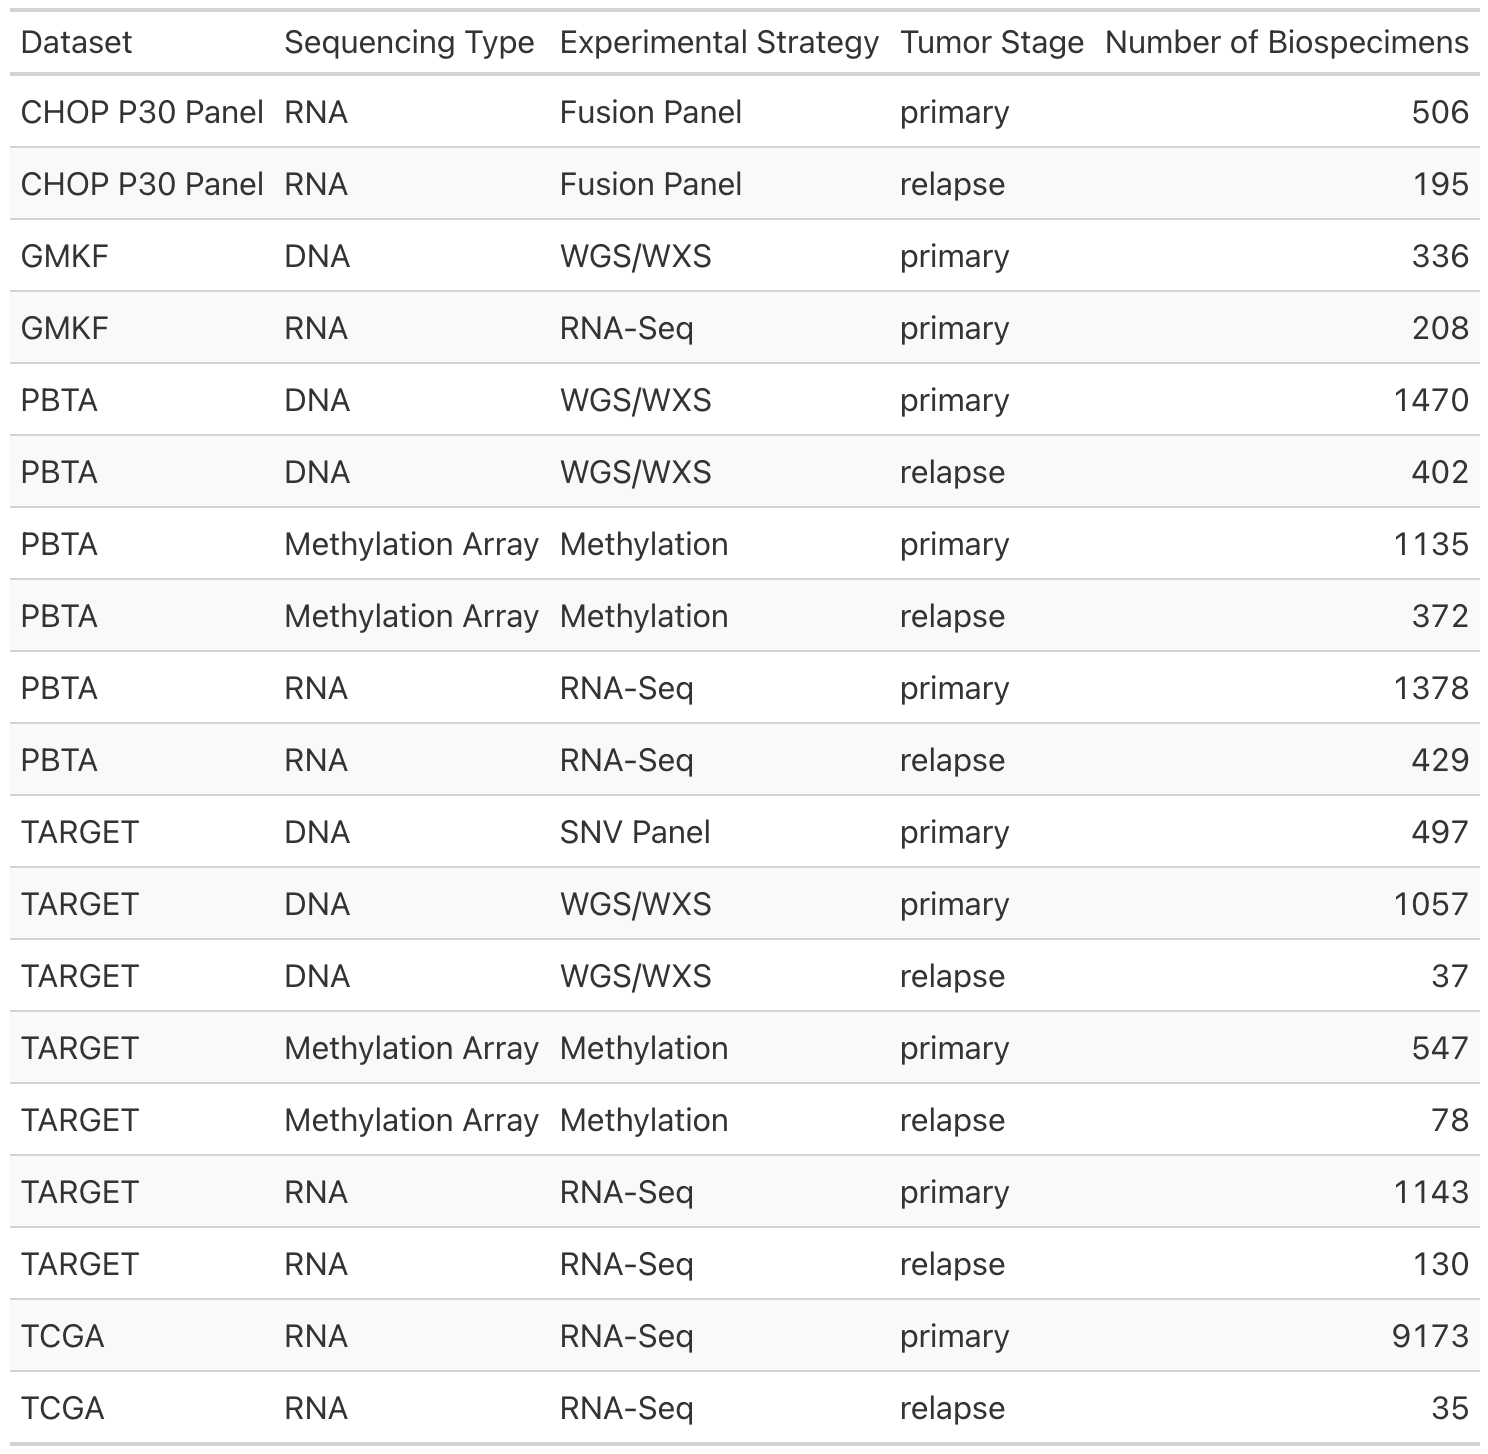
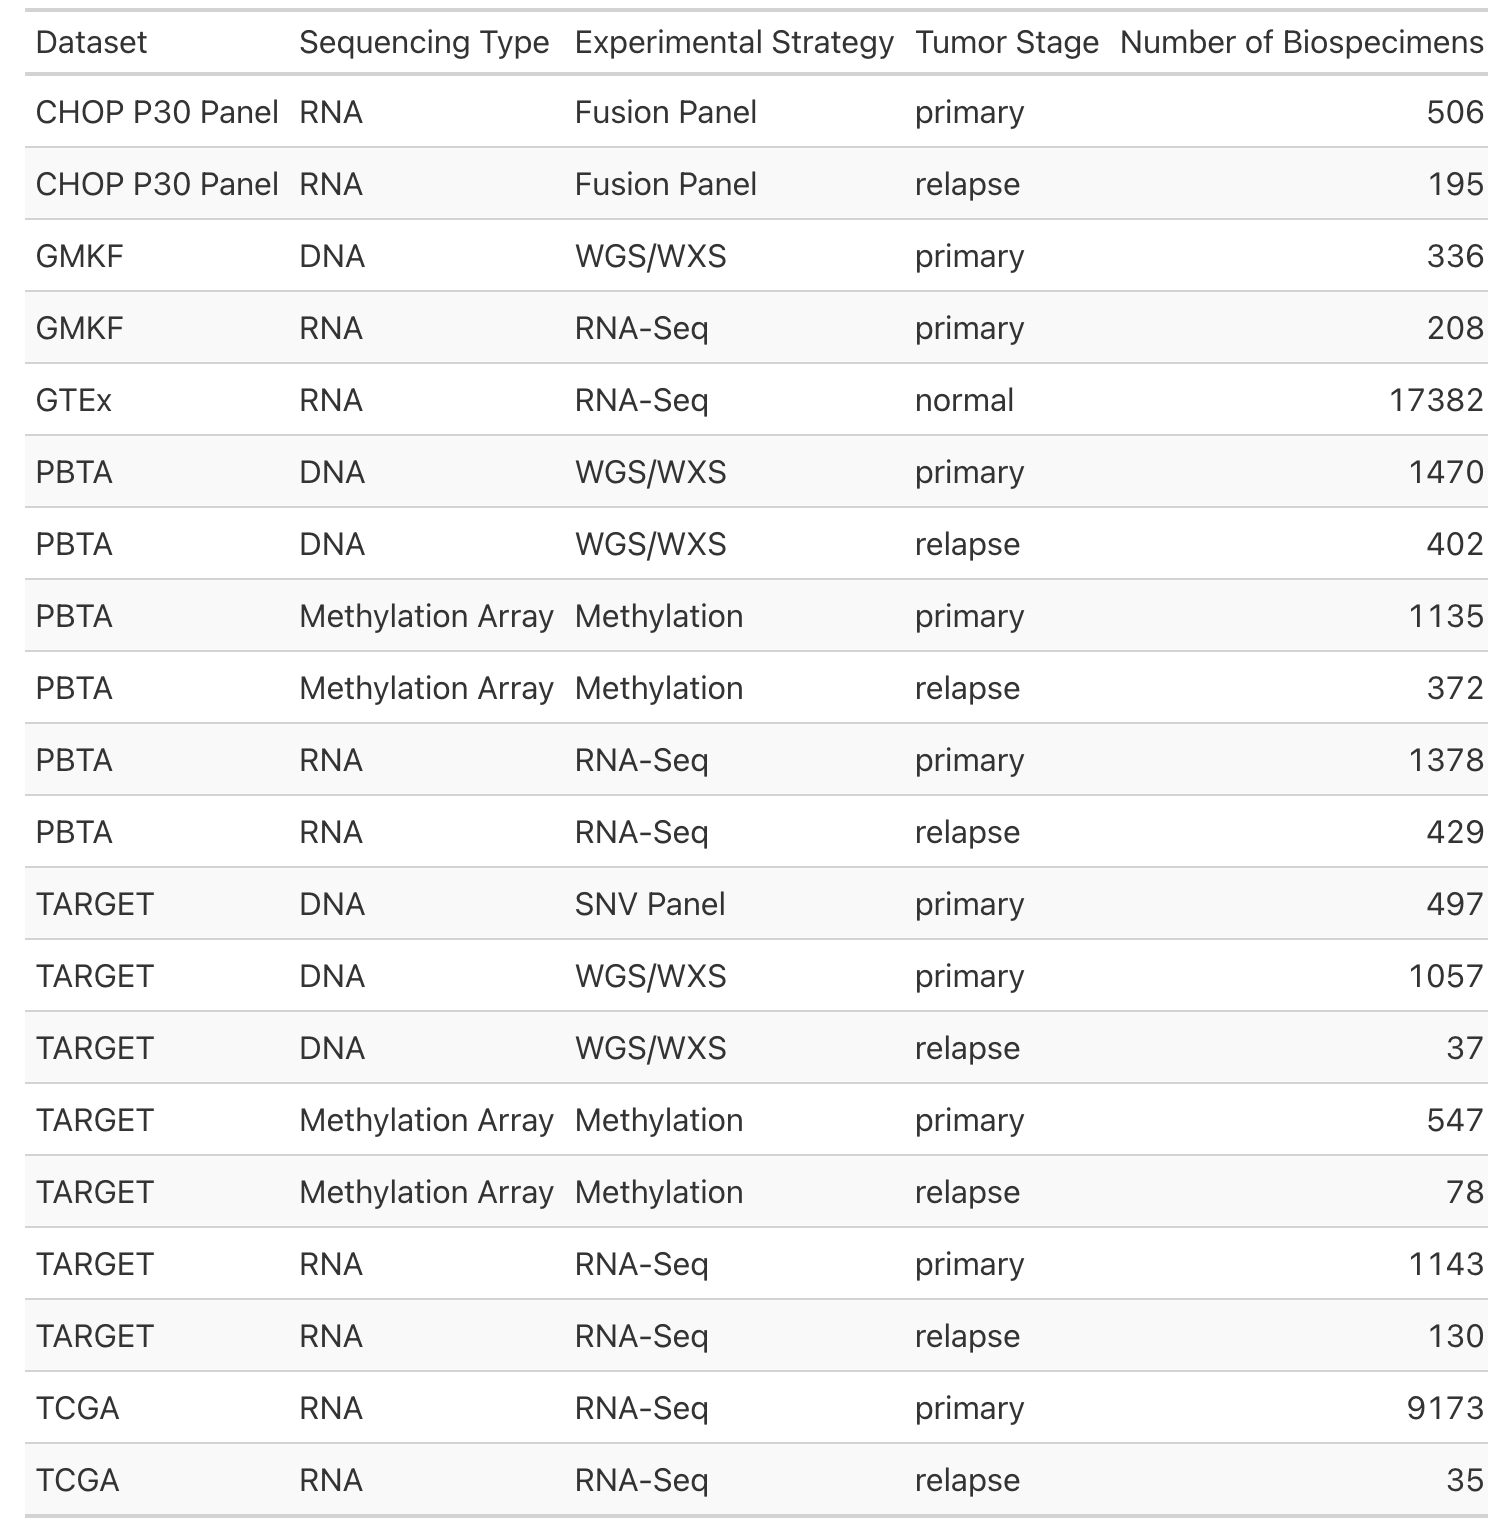
adding GTEx counts in

Changed region(s): [[0.0, 0.0, 1.0, 0.9904], [0.9583, 0.9594, 1.0, 1.0]]

diff --git a/scripts/biospecimen_count.html b/scripts/biospecimen_count.html
@@ -494,15 +494,16 @@ experimental strategy) per cohort</p>
 histologies %&gt;% 
 # get unique combinations of patients, cohorts, diseases (cancer_group), 
 # types of data (experimental_strategy), and tumor descriptions
-  distinct(Kids_First_Participant_ID, Kids_First_Biospecimen_ID, 
+  distinct(Kids_First_Participant_ID, Kids_First_Biospecimen_ID, sample_type,
            cohort, cancer_group, experimental_strategy, tumor_descriptor) %&gt;%
   inner_join(bind_rows(dna_primary, dna_relapse)) %&gt;% 
   filter(!is.na(cohort), !is.na(cancer_group)) %&gt;%
 # add stage column to specify whether the tumor is primary or relapse in keeping
 # with the language on the Pediatric Molecular Targets site
-  mutate(stage = case_when(tumor_descriptor %in% 
+  mutate(stage = case_when(sample_type == &#39;Normal&#39; ~ &#39;normal&#39;,
+                           sample_type == &#39;Tumor&#39; &amp; tumor_descriptor %in% 
                              unique(dna_primary$tumor_descriptor) ~ &#39;primary&#39;,
-                           tumor_descriptor %in% 
+                           sample_type == &#39;Tumor&#39; &amp; tumor_descriptor %in% 
                              unique(dna_relapse$tumor_descriptor) ~ &#39;relapse&#39;,
                            TRUE ~ NA_character_),
 # Don&#39;t distinguish different sequencing methods on the Pediatric Molecular 
@@ -541,15 +542,18 @@ experimental strategy) per cohort</p>
 histologies %&gt;% 
 # get unique combinations of patients, cohorts, diseases (cancer_group), 
 # types of data (experimental_strategy), and tumor descriptions
-  distinct(Kids_First_Participant_ID, Kids_First_Biospecimen_ID, 
+  distinct(Kids_First_Participant_ID, Kids_First_Biospecimen_ID, sample_type,
            cohort, cancer_group, experimental_strategy, tumor_descriptor) %&gt;%
-  inner_join(rbind(rna_primary, rna_relapse)) %&gt;% 
-  filter(!is.na(cohort), !is.na(cancer_group)) %&gt;%
+  filter(Kids_First_Biospecimen_ID %in% rna_primary$Kids_First_Biospecimen_ID | 
+           Kids_First_Biospecimen_ID %in% rna_relapse$Kids_First_Biospecimen_ID |
+           cohort == &#39;GTEx&#39;) %&gt;% 
+  filter(!is.na(cohort), !is.na(cancer_group) | sample_type == &#39;Normal&#39;) %&gt;%
 # add stage column to specify whether the tumor is primary or relapse in keeping
 # with the language on the Pediatric Molecular Targets site
-  mutate(stage = case_when(tumor_descriptor %in% 
+  mutate(stage = case_when(sample_type == &#39;Normal&#39; ~ &#39;normal&#39;,
+                           sample_type == &#39;Tumor&#39; &amp; tumor_descriptor %in% 
                              unique(dna_primary$tumor_descriptor) ~ &#39;primary&#39;,
-                           tumor_descriptor %in% 
+                           sample_type == &#39;Tumor&#39; &amp; tumor_descriptor %in% 
                              unique(dna_relapse$tumor_descriptor) ~ &#39;relapse&#39;,
                            TRUE ~ NA_character_),
 # Don&#39;t distinguish different sequencing methods on the Pediatric Molecular 
@@ -559,13 +563,10 @@ histologies %&gt;%
          experimental_strategy = case_when(experimental_strategy == 
                                              &#39;Targeted Sequencing&#39; ~ 
                                              &#39;Fusion Panel&#39;,
-                                           TRUE ~ experimental_strategy)) %&gt;% 
+                                           TRUE ~ experimental_strategy)) %&gt;%
   count(cohort, stage, sequencing_type, 
         experimental_strategy, cancer_group) %&gt;%
   filter(n &gt;= 3) -&gt; rna_counts</code></pre>
-<pre><code>## Joining with `by = join_by(Kids_First_Participant_ID,
-## Kids_First_Biospecimen_ID, cohort, cancer_group, experimental_strategy,
-## tumor_descriptor)`</code></pre>
 <p>Check that there is no missing information (<code>NA</code>) in the
 RNA count table.</p>
 <pre class="r"><code>if ( any(is.na(rna_counts$stage)) ) {
@@ -577,6 +578,8 @@ RNA count table.</p>
 } else if ( any(is.na(rna_counts$cancer_group)) ) {
   warning(&#39;Missing cancer_group count information, is.na(rna_counts$cancer_group) is true.&#39;)
 } </code></pre>
+<pre><code>## Warning: Missing cancer_group count information, is.na(rna_counts$cancer_group)
+## is true.</code></pre>
 <p><br></p>
 </div>
 <div id="count-methylation-biospecimens" class="section level4">
@@ -587,15 +590,16 @@ experimental strategy) per cohort</p>
 histologies %&gt;% 
 # get unique combinations of patients, cohorts, diseases (cancer_group), 
 # types of data (experimental_strategy), and tumor descriptions
-  distinct(Kids_First_Participant_ID, Kids_First_Biospecimen_ID, 
+  distinct(Kids_First_Participant_ID, Kids_First_Biospecimen_ID, sample_type,
            cohort, cancer_group, experimental_strategy, tumor_descriptor) %&gt;%
   inner_join(rbind(methyl_primary, methyl_relapse)) %&gt;% 
   filter(!is.na(cohort), !is.na(cancer_group)) %&gt;%
 # add stage column to specify whether the tumor is primary or relapse in keeping
 # with the language on the Pediatric Molecular Targets site
-  mutate(stage = case_when(tumor_descriptor %in% 
+  mutate(stage = case_when(sample_type == &#39;Normal&#39; ~ &#39;normal&#39;,
+                           sample_type == &#39;Tumor&#39; &amp; tumor_descriptor %in% 
                              unique(dna_primary$tumor_descriptor) ~ &#39;primary&#39;,
-                           tumor_descriptor %in% 
+                           sample_type == &#39;Tumor&#39; &amp; tumor_descriptor %in% 
                              unique(dna_relapse$tumor_descriptor) ~ &#39;relapse&#39;,
                            TRUE ~ NA_character_),
 # Don&#39;t distinguish different sequencing methods on the Pediatric Molecular 
@@ -632,17 +636,7 @@ methylation count table.</p>
                             cohort == &#39;TARGET&#39; &amp; 
                               experimental_strategy == &#39;Targeted Sequencing&#39; ~ 
                               &#39;TARGET Panel&#39;,
-                            TRUE ~ cohort)) -&gt; dataset_disease_counts
-
-dataset_disease_counts %&gt;% distinct(experimental_strategy)</code></pre>
-<pre><code>## # A tibble: 5 × 1
-##   experimental_strategy
-##   &lt;chr&gt;                
-## 1 WGS/WXS              
-## 2 SNV Panel            
-## 3 Fusion Panel         
-## 4 RNA-Seq              
-## 5 Methylation</code></pre>
+                            TRUE ~ cohort)) -&gt; dataset_disease_counts</code></pre>
 <div id="per-dataset-and-disease-counts" class="section level4">
 <h4>Per Dataset and Disease Counts</h4>
 <pre class="r"><code>dataset_disease_counts %&gt;% 
